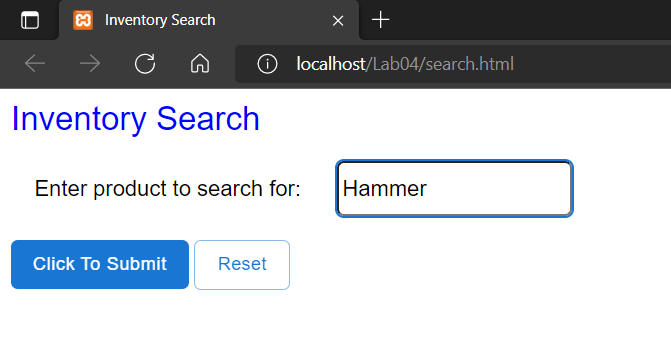
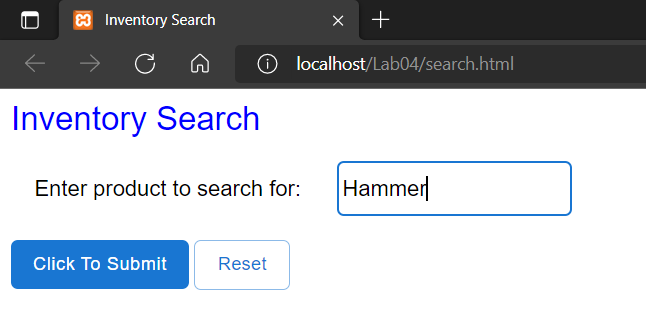
[refactoring] update screenshots

diff --git a/Lab 04/4.1/4.1.2/insert.html b/Lab 04/4.1/4.1.2/insert.html
@@ -18,16 +18,19 @@
         }
         
         input {
+            outline: 1px solid black;
+            border: 2px solid transparent;
             border-radius: 6px;
             height: 2.5em;
             font-size: 16px;
+            box-sizing: border-box;
         }
-            
+       
         input:focus {
-            outline: 2px;
-            outline-style: solid;
-            outline-color: #1976d2;
+            outline: 0px solid transparent;
+            border: 2px solid rgb(25, 118, 210);
             border-radius: 5px;
+            box-sizing: border-box;
         }
         
         .containedButton {

diff --git a/Lab 04/4.1/4.1.4/search.html b/Lab 04/4.1/4.1.4/search.html
@@ -17,16 +17,19 @@
         }
         
         input {
+            outline: 1px solid black;
+            border: 2px solid transparent;
             border-radius: 6px;
             height: 2.5em;
             font-size: 16px;
+            box-sizing: border-box;
         }
-            
+       
         input:focus {
-            outline: 2px;
-            outline-style: solid;
-            outline-color: #1976d2;
+            outline: 0px solid transparent;
+            border: 2px solid rgb(25, 118, 210);
             border-radius: 5px;
+            box-sizing: border-box;
         }
         
         .containedButton {
